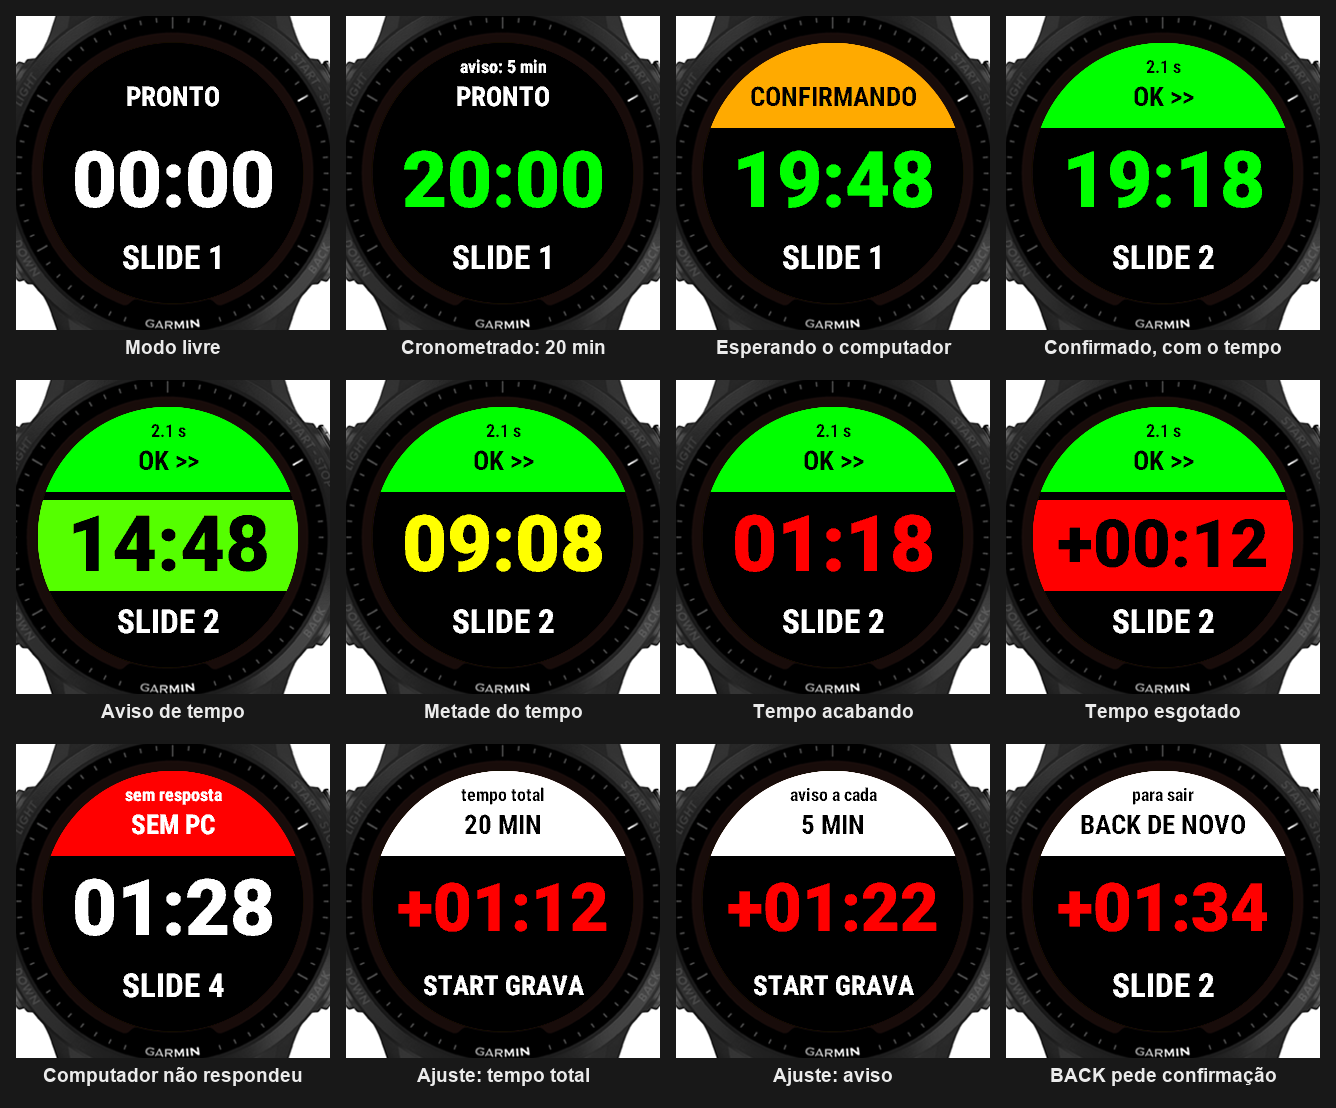
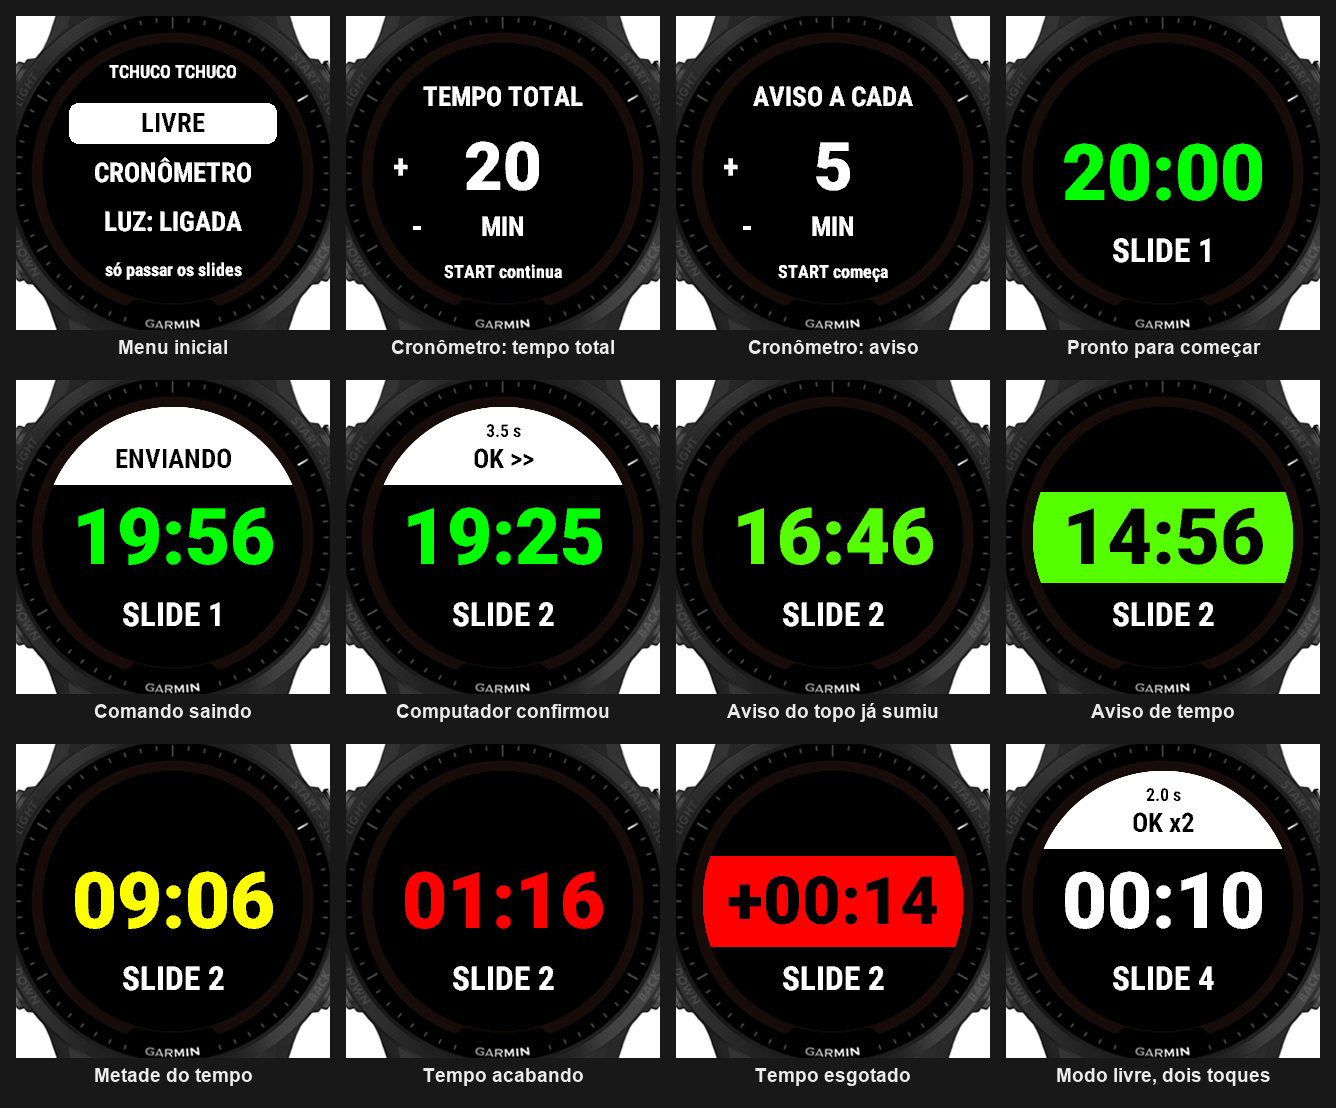
README: menu inicial e telas novas

diff --git a/README.md b/README.md
@@ -24,57 +24,71 @@ app de celular, banco de dados nem login.
 | `watch/` | App do relógio (Connect IQ, Monkey C, alvo `fr955`) |
 | `desktop/` | Script do computador (Python 3, um arquivo, Windows e macOS) |
 
-## Botões do relógio
+## Como usar no relógio
 
 O app é operado só pelos botões. Toques e deslizes na tela são ignorados, e o
 app não abre telas do sistema (que aceitariam toque).
+
+![Telas do app no simulador](docs/telas.png)
+
+### Menu inicial
+
+Ao abrir, o app mostra três opções; a de baixo da tela explica a que está
+destacada. UP e DOWN escolhem, START confirma e BACK fecha o app.
+
+| Opção | O que faz |
+|---|---|
+| LIVRE | vai direto para o passador de slides, sem limite de tempo |
+| CRONÔMETRO | pergunta o tempo total e o intervalo do aviso e começa a apresentação com contagem regressiva |
+| LUZ: LIGADA / AUTO | START alterna entre manter a luz do visor sempre acesa e deixar o relógio decidir |
+
+O menu abre na última opção usada, e os tempos escolhidos ficam guardados no
+relógio.
+
+### Ajustes do cronômetro
+
+Duas telas, uma depois da outra: **tempo total** e **aviso a cada**. UP
+aumenta, DOWN diminui (o "+" e o "-" na tela ficam ao lado desses botões),
+START segue para a próxima e BACK volta. Os valores vão de 1 em 1 minuto até
+30, de 5 em 5 até 60 e de 15 em 15 até 180; no aviso, zero vale "SEM AVISO".
+
+### Apresentação
 
 | Botão | Ação |
 |---|---|
 | START (superior direito) | próximo slide (`next`) |
 | DOWN (inferior esquerdo, o da música) | slide anterior (`prev`) |
-| BACK (inferior direito) | mostra "BACK DE NOVO"; um segundo BACK em 3 s fecha o app |
-| UP (meio esquerdo), segurando | abre os ajustes de tempo |
-| UP, toque curto | nada |
+| BACK (inferior direito) | mostra "BACK DE NOVO"; um segundo BACK em 3 s volta para o menu |
+| UP (meio esquerdo) | nada |
 
-## Tempo: modo livre e modo cronometrado
+A tela mostra o tempo, grande, e o contador de slides.
 
-- **Livre:** um cronômetro branco que conta para cima a partir do primeiro
-  clique, sem nenhum aviso.
-- **Cronometrado:** você define o tempo total da apresentação e o relógio faz
-  a contagem regressiva a partir do primeiro clique. O número vai do verde ao
-  vermelho em sete tons conforme o tempo acaba. A cada intervalo escolhido
-  (quando faltam 15, 10, 5 minutos, por exemplo) o meio da tela acende por 3
-  segundos e o relógio dá três vibrações suaves. Quando o tempo acaba são
-  cinco vibrações fortes, e o número passa a mostrar em vermelho quanto tempo
-  passou do limite ("+00:12").
+- **Modo livre:** cronômetro branco que conta para cima a partir do primeiro
+  clique, sem avisos.
+- **Cronômetro:** contagem regressiva a partir do primeiro clique. O número
+  vai do verde ao vermelho em sete tons conforme o tempo acaba. A cada
+  intervalo escolhido (quando faltam 15, 10, 5 minutos, por exemplo) o meio
+  da tela acende por 3 segundos e o relógio dá três vibrações suaves. Quando
+  o tempo acaba são cinco vibrações fortes, e o número passa a mostrar em
+  vermelho quanto tempo passou do limite ("+00:12").
 
-Para ajustar, segure o UP. Primeiro aparece **tempo total**: UP aumenta, DOWN
-diminui e START grava; "LIVRE" (zero) escolhe o modo livre. Em seguida, no
-modo cronometrado, aparece **aviso a cada**, ajustado do mesmo jeito;
-"DESLIGADO" tira os avisos intermediários. Os valores vão de 1 em 1 minuto
-até 30, de 5 em 5 até 60 e de 15 em 15 até 180. BACK sai sem gravar o que
-está na tela. Os ajustes ficam guardados no relógio.
+O resultado de cada comando aparece numa faixa branca com letra preta no topo
+(sempre a mesma cor, para não se confundir com as cores do tempo) e some
+sozinho: 3 segundos depois de um "OK" e 10 segundos depois de uma falha.
 
-## A tela
-
-![Telas do app no simulador](docs/telas.png)
-
-De cima para baixo: a faixa com o resultado do último envio, o tempo e o
-contador de slides.
-
-| Faixa | Significado |
+| Aviso | Significado |
 |---|---|
-| amarela, "ENVIANDO" | o comando está indo para o ntfy |
-| amarela, "CONFIRMANDO" | o ntfy recebeu; esperando o computador responder |
-| verde, "OK" | o computador executou; em cima, quanto tempo levou |
-| vermelha, "SEM PC" | o ntfy recebeu, mas nenhum computador respondeu |
-| vermelha, "SEM CELULAR" / "SEM INTERNET" / "ERRO HTTP" | o comando não saiu; em cima, o código do erro |
+| "ENVIANDO" | o comando está indo para o ntfy |
+| "CONFIRMANDO" | o ntfy recebeu; esperando o computador responder |
+| "OK >>" / "<< OK" | o computador executou; em cima, quanto tempo levou |
+| "OK x2" | dois (ou mais) toques seguidos foram executados |
+| "SEM PC" | o ntfy recebeu, mas nenhum computador respondeu |
+| "SEM CELULAR" / "SEM INTERNET" / "ERRO HTTP" | o comando não saiu; em cima, o código do erro |
 
 | Vibração | Quando |
 |---|---|
-| uma, suave e curta (50 ms) | o computador confirmou o comando |
-| uma, suave e mais longa (300 ms) | o envio falhou ou o computador não respondeu |
+| uma suave e curta (50 ms) por comando | o computador confirmou; dois toques seguidos dão duas |
+| uma suave e mais longa (300 ms) | o envio falhou ou o computador não respondeu |
 | três suaves, uma por segundo | aviso de tempo |
 | cinco fortes (500 ms), uma por segundo | o tempo acabou |
 
@@ -205,7 +219,6 @@ testado, menos o Bluetooth e o celular.
 - *Settings → Connection Type → BLE → Not Connected*: simula o celular
   desconectado (o app mostra "SEM CELULAR", código -104).
 - *File → View HTTP Traffic*: mostra as requisições feitas pelo app.
-- Tecla **M** do teclado, com o simulador em foco: equivale a segurar o UP.
 
 ### 3.5 Copiar para o relógio
 
@@ -321,32 +334,37 @@ repita os comandos `curl`: o slide deve avançar e voltar.
 
 Com o script rodando em `--dry-run`, abra o app no simulador (seção 3.4):
 
+- no menu, UP e DOWN mudam a opção destacada; START em LIVRE abre a
+  apresentação com o cronômetro em 00:00;
 - START: o terminal do `monkeydo` mostra `envio de next: 200` e depois
-  `confirmado em ... ms`; o script imprime `next -> seta direita`; a faixa
-  passa por amarelo e fica verde; o contador sobe;
+  `confirmado em ... ms (1)`; o script imprime `next -> seta direita`; a faixa
+  branca mostra "ENVIANDO", "CONFIRMANDO" e "OK >>", e some em 3 segundos;
+- dois START seguidos: `confirmado em ... ms (2)` e "OK x2";
 - DOWN: `prev`, e o contador desce; UP não faz nada;
-- com o script fechado: depois de três consultas, faixa vermelha "SEM PC";
-- com *BLE → Not Connected*: faixa vermelha "SEM CELULAR";
+- com o script fechado: depois de três consultas, "SEM PC";
+- com *BLE → Not Connected*: "SEM CELULAR";
 - clicar ou arrastar o mouse sobre a tela do relógio não faz nada;
-- BACK mostra "BACK DE NOVO"; outro BACK em 3 s fecha o app, e o terminal
-  mostra `atividade descartada`;
-- tecla M: abre os ajustes. Escolha um tempo total curto, grave e aperte
-  START: o número começa verde, acende nos avisos, fica vermelho e, no fim,
-  passa a mostrar "+MM:SS".
+- BACK mostra "BACK DE NOVO"; outro BACK em 3 s volta para o menu;
+- no menu, CRONÔMETRO: escolha um tempo total curto e um aviso, e aperte START
+  na apresentação: o número começa verde, acende nos avisos, fica vermelho e,
+  no fim, passa a mostrar "+MM:SS";
+- no menu, BACK fecha o app e o terminal mostra `atividade descartada`.
 
 **4. Relógio de verdade**
 
 Com o celular por perto, Bluetooth ligado e o Garmin Connect aberto:
 
-- START avança e DOWN volta, com uma vibração curta quando o computador
-  confirma; anote o tempo que aparece em cima do "OK";
+- no modo livre, START avança e DOWN volta, com uma vibração curta quando o
+  computador confirma; anote o tempo que aparece em cima do "OK";
+- dois toques seguidos: duas vibrações e "OK x2";
 - com o script fechado: "SEM PC" e vibração mais longa;
 - com o Bluetooth do celular desligado: "SEM CELULAR";
 - com o celular em modo avião e Bluetooth ligado: uma mensagem de falha com o
   código do erro;
 - toques e deslizes na tela não fazem nada;
-- segurar o UP abre os ajustes; num teste com 2 minutos de tempo total e
-  aviso a cada 1, sinta as três vibrações suaves e as cinco fortes do fim;
+- com LUZ: LIGADA, a luz do visor fica acesa o tempo todo;
+- no cronômetro, com 2 minutos de tempo total e aviso a cada 1, sinta as três
+  vibrações suaves e as cinco fortes do fim;
 - com "durante a atividade" desligado nas notificações do relógio, mande uma
   mensagem para o celular com o app aberto: ela não deve aparecer;
 - depois de fechar o app, confira que nenhuma atividade foi salva;
@@ -403,6 +421,10 @@ Com o celular por perto, Bluetooth ligado e o Garmin Connect aberto:
   em andamento, que é descartada ao sair.
 - **Avisos de tempo só com a tela do app aberta.** Eles são disparados pelo
   redesenho de 1 segundo da tela.
+- **Luz sempre acesa gasta bateria.** Com LUZ: LIGADA o app renova a luz do
+  visor a cada segundo; em LUZ: AUTO vale a configuração do relógio. A
+  documentação da Garmin diz que a luz sempre respeita as configurações do
+  aparelho, então falta conferir no relógio se ela fica mesmo acesa.
 - **Toque.** No 955, deslizar o dedo para a direita chega ao app como o botão
   BACK. O app separa os dois casos (só o botão físico gera o evento de "tecla
   apertada"); isso funcionou no simulador e ainda precisa ser conferido no
